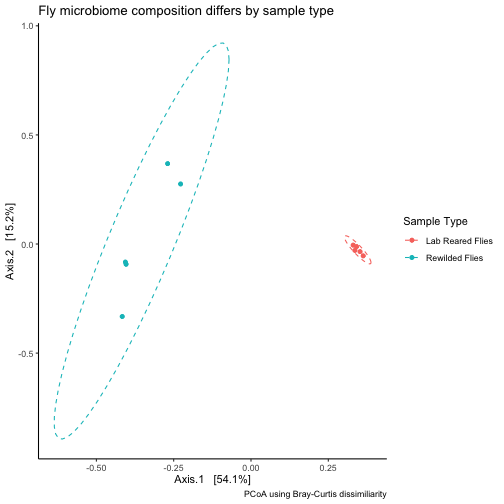
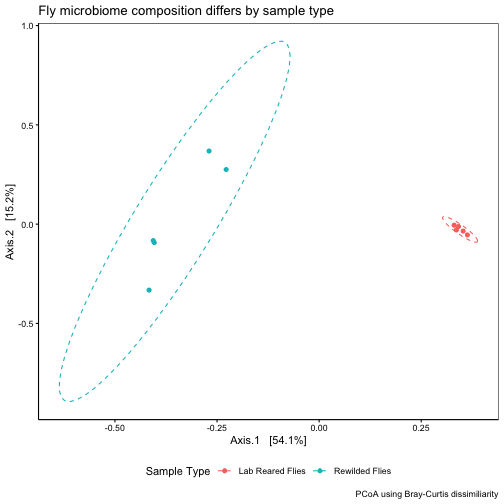
made everything a little less UGGLEE

diff --git a/scripts/konicek_final_slides.html b/scripts/konicek_final_slides.html
@@ -126,12 +126,37 @@ depth &lt;- metadata %&gt;%
   geom_histogram(bins = 30) +
   scale_x_continuous(breaks=seq(0,25000,1500)) +
   scale_y_continuous(breaks=seq(0,2,1)) +
-  theme(axis.text.x.bottom = element_text(size = 10, angle = 60, hjust = .7, vjust = .7)) +
-  scale_fill_discrete(labels=c('Lab Only Flies', 'Rewilded Flies')) +
+  theme(axis.text.x.bottom = element_text(size = 10, angle = 60, hjust = .7, vjust = .7),
+    panel.border = element_rect(colour = "black", fill = NA, linetype = 1),
+    # color background 2)
+    panel.background = element_rect(fill = "white"),
+    # modify grid 3)
+    panel.grid.major.x = element_line(colour = "black", linetype = 1, size = 0.5),
+    panel.grid.minor.x = element_blank(),
+    panel.grid.major.y =  element_line(colour = "black", linetype = 1, size = 0.5),
+    panel.grid.minor.y = element_blank(),
+    # modify text, axis and colour 4) and 5)
+    axis.text = element_text(colour = "black"),
+    axis.title = element_text(colour = "black"),
+    axis.ticks = element_line(colour = "black"),
+    # legend at the bottom 6)
+    legend.position = "bottom") +
+  scale_fill_discrete(labels=c('Lab Reared Flies', 'Rewilded Flies')) +
   labs(title = "Sequencing Depth",
        x = "Number of reads per sample",
        y = "Samples with x number of reads",
        fill = "Sample Type") 
+```
+
+```
+## Warning: The `size` argument of `element_line()` is deprecated as of ggplot2 3.4.0.
+## ℹ Please use the `linewidth` argument instead.
+## This warning is displayed once every 8 hours.
+## Call `lifecycle::last_lifecycle_warnings()` to see where this warning was
+## generated.
+```
+
+``` r
 depth
 ```
 
@@ -139,17 +164,59 @@ depth
 ---
 
 ## Sequencing depth histogram- how did my samples sequence?
+.pull-center[
 
 ``` r
 depth
 ```
 
 ![](konicek_final_slides_files/figure-html/fig1-1.png)&lt;!-- --&gt;
+]
+
+---
+# Beta Diversity using PCoA ordination
+
+``` r
+dist = phyloseq::distance(ps_rewild, method="bray", binary = TRUE) #Measure dissimilarity between samples
+ordination = ordinate(ps_rewild, method="PCoA", distance=dist) # ordinate those dissimilarity measurements onto a Principle Coordinate Analysis Plot
+beta &lt;- plot_ordination(ps_rewild, ordination, color ="treatment") + #plot_ordination starts the plot
+  theme_classic() +
+  theme(panel.border = element_rect(colour = "black", fill = NA, linetype = 1),
+    # color background 2)
+    panel.background = element_rect(fill = "white"),
+    # modify grid 3)
+    panel.grid.minor.x = element_blank(),
+    panel.grid.minor.y = element_blank(),
+    # modify text, axis and colour 4) and 5)
+    axis.text = element_text(colour = "black"),
+    axis.title = element_text(colour = "black"),
+    axis.ticks = element_line(colour = "black"),
+    # legend at the bottom 6)
+    legend.position = "bottom") +
+  geom_point() +
+  stat_ellipse(aes(group = treatment), level = 0.95, linetype = 2) +
+  scale_color_discrete(breaks = c("Lab_Only", "rewilded"), name = "Sample Type", labels = c("Lab Reared Flies", "Rewilded Flies")) +
+  labs(title = "Fly microbiome composition differs by sample type",
+       caption = "PCoA using Bray-Curtis dissimiliarity")
+beta
+```
+
+![](../output/beta1-1.png)&lt;!-- --&gt;
 
 
 ---
 
-# Relative Abundance Bar Plot from a Phyloseq Object
+
+
+``` r
+beta
+```
+
+![](konicek_final_slides_files/figure-html/beta-1.png)&lt;!-- --&gt;
+
+---
+
+# Final Figure: Relative Abundance Bar Plot from a Phyloseq Object
 merge asvs to shared Genus, and get relative abundance of top 11 taxa (10 known plus unknown genera)
 
 ``` r
@@ -162,7 +229,7 @@ df$Genus &lt;- gsub("NA", "Unknown Genera", df$Genus) #Let's say "Unknown Genera
 ```
 
 ---
-# Relative Abundance Bar Plot from a Phyloseq Object
+# Final Figure: Relative Abundance Bar Plot from a Phyloseq Object
 
 ``` r
 plotm &lt;- df %&gt;%
@@ -176,9 +243,13 @@ plotm &lt;- df %&gt;%
   scale_y_continuous(labels = percent) +
   theme(axis.text.x=element_blank(),
         axis.ticks.x=element_blank(),
-        strip.background = element_blank()) +
+        axis.ticks.y = element_line(colour = "grey"),
+        panel.grid.major.x = element_blank(),
+        panel.grid.major.y = element_line(colour= "grey"),
+        panel.background = element_rect(fill = NA),
+        strip.background = element_rect(colour = "black", fill = "white")) +
   labs(title = "Microbiome Profiles: Lab Reared vs. Rewilded",
-       x = "Fly microbiome profiles",
+       x = "Individual fly microbiome profiles",
        y = "Relative abundance of taxa") +
   facet_grid(~treatment,labeller = as_labeller(c(`Lab_Only` = "Lab Reared Flies", `rewilded` = "Rewilded Flies")))
 plotm
@@ -198,35 +269,7 @@ plotm
 
 
 ---
-# Final Figure: Beta Diversity using PCoA ordination
 
-``` r
-dist = phyloseq::distance(ps_rewild, method="bray", binary = TRUE) #Measure dissimilarity between samples
-ordination = ordinate(ps_rewild, method="PCoA", distance=dist) # ordinate those dissimilarity measurements onto a Principle Coordinate Analysis Plot
-beta &lt;- plot_ordination(ps_rewild, ordination, color ="treatment") + #plot_ordination starts the plot
-  theme_classic() +
-  theme(strip.background = element_blank()) +
-  geom_point() +
-  stat_ellipse(aes(group = treatment), level = 0.95, linetype = 2) +
-  scale_color_discrete(breaks = c("Lab_Only", "rewilded"), name = "Sample Type", labels = c("Lab Reared Flies", "Rewilded Flies")) +
-  labs(title = "Fly microbiome composition differs by sample type",
-       caption = "PCoA using Bray-Curtis dissimiliarity")
-beta
-```
-
-![](../output/beta1-1.png)&lt;!-- --&gt;
-
-
----
-
-
-``` r
-beta
-```
-
-![](konicek_final_slides_files/figure-html/beta-1.png)&lt;!-- --&gt;
-
----
 # Conclusions
 Flies that stayed in the lab sure have different microbiomes compared to flies that lived in the wild! 
 
@@ -236,7 +279,7 @@ These stats are Real Bad and we have learned nothing quantifiable, but I learned
 
 class: center, middle
 
-# Mahalo!
+# Mahalo
 
 Slides created via the R package [**xaringan**](https://github.com/yihui/xaringan).
 
